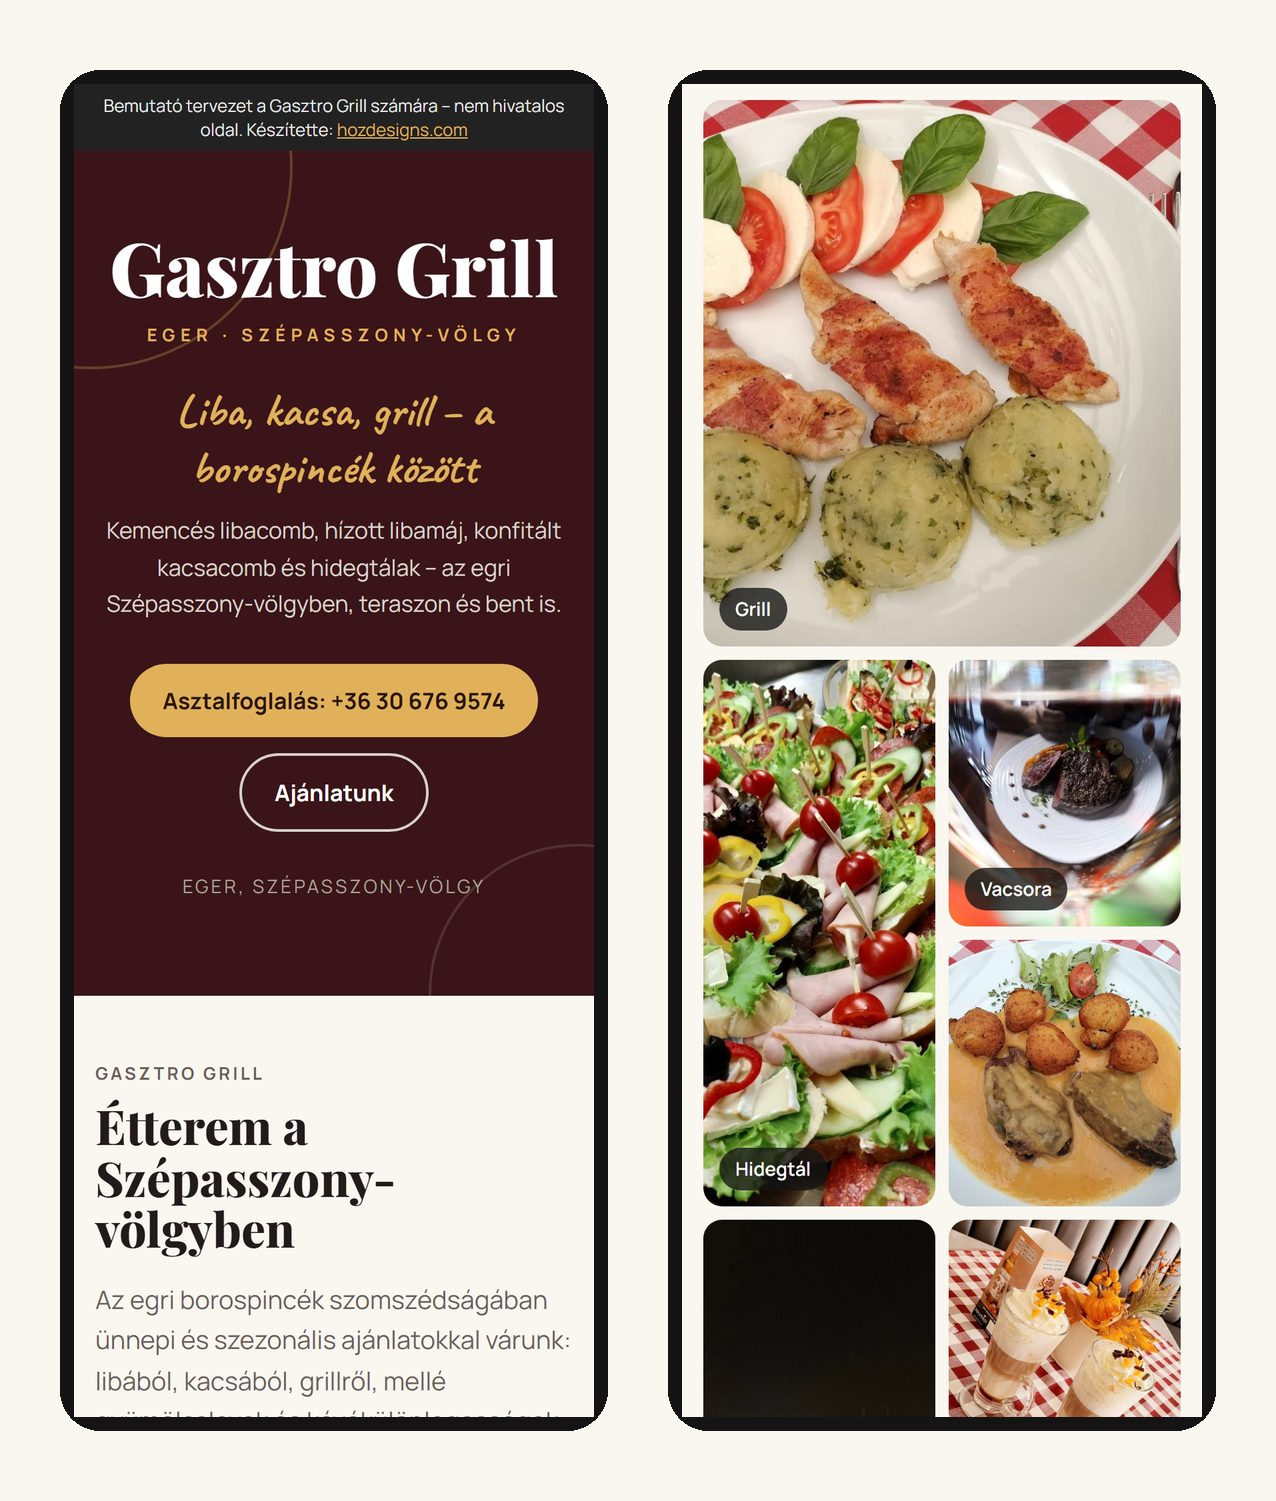
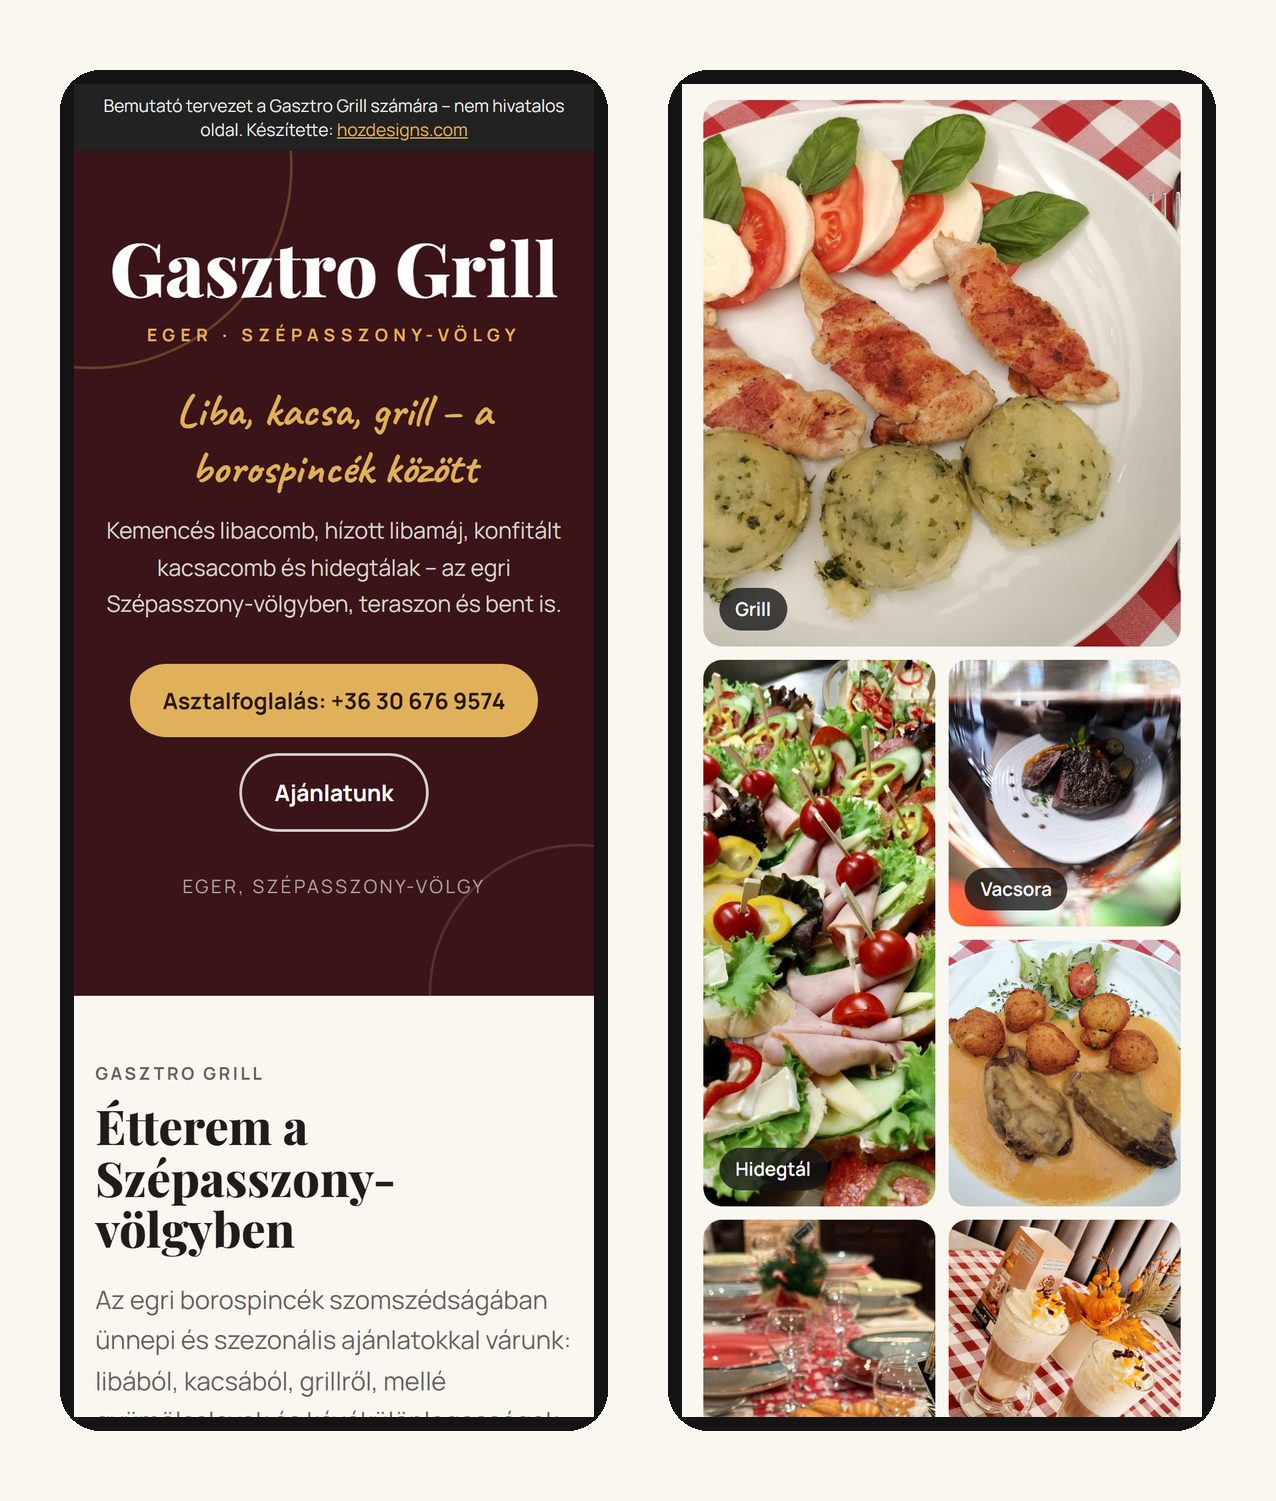
Gasztro Grill: fotócsere

Changed region(s): [[0.5502, 0.7968, 0.7335, 0.95]]

diff --git a/minta/gasztro-grill-eger/index.html b/minta/gasztro-grill-eger/index.html
@@ -187,7 +187,7 @@ footer a{color:var(--accent)}
 <figure class="g2"><img src="hidegtal.jpg" alt="Hidegtál" loading="lazy"><figcaption>Hidegtál</figcaption></figure>
 <figure class="g3"><img src="steak.jpg" alt="Grillezett hús" loading="lazy"><figcaption>Vacsora</figcaption></figure>
 <figure class="g4"><img src="foetel.jpg" alt="Főétel körettel" loading="lazy"></figure>
-<figure class="g5"><img src="terasz.jpg" alt="A terasz esti fényben" loading="lazy"></figure>
+<figure class="g5"><img src="asztal.jpg" alt="Ünnepi asztal" loading="lazy"></figure>
 <figure class="g6"><img src="kave.jpg" alt="Kávékülönlegességek" loading="lazy"></figure>
 <figure class="g7"><img src="hidegtal2.jpg" alt="Szendvicstál" loading="lazy"></figure>
 <figure class="g8"><img src="terites.jpg" alt="Megterített asztal" loading="lazy"></figure>
@@ -217,7 +217,7 @@ footer a{color:var(--accent)}
   </div>
 </section>
 
-<div class="strip" aria-hidden="true"><img src="steak.jpg" alt="" loading="lazy"><img src="kave.jpg" alt="" loading="lazy"><img src="hidegtal2.jpg" alt="" loading="lazy"><img src="terasz.jpg" alt="" loading="lazy"><img src="csirke.jpg" alt="" loading="lazy"></div>
+<div class="strip" aria-hidden="true"><img src="steak.jpg" alt="" loading="lazy"><img src="kave.jpg" alt="" loading="lazy"><img src="hidegtal2.jpg" alt="" loading="lazy"><img src="terites.jpg" alt="" loading="lazy"><img src="csirke.jpg" alt="" loading="lazy"></div>
 
 <section class="story" aria-labelledby="story-cim">
   <div class="wrap">
